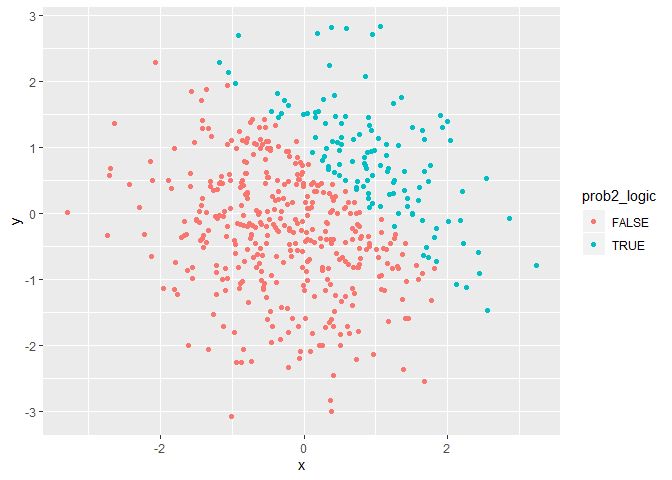
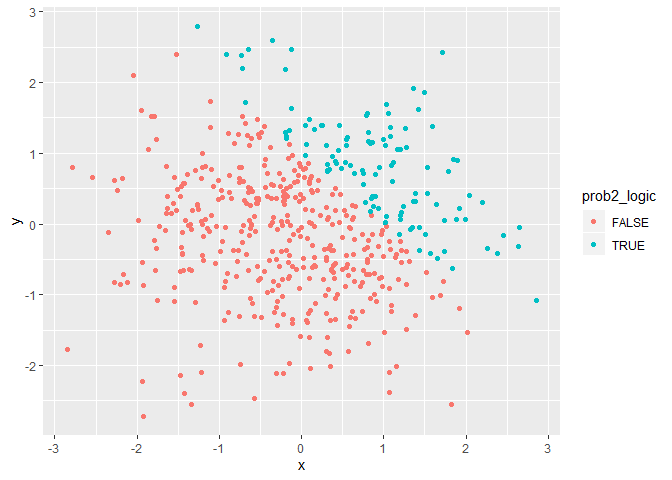
Added my vector names to explanations in parts 1-3 and 2-1

diff --git a/p8105_hw1_ha2546.md b/p8105_hw1_ha2546.md
@@ -25,13 +25,13 @@ prob1_df = tibble(
 mean(pull(prob1_df, vec_sample))
 ```
 
-    ## [1] -0.294464
+    ## [1] 0.2251943
 
 ``` r
 mean(pull(prob1_df, vec_logic))
 ```
 
-    ## [1] 0.375
+    ## [1] 0.75
 
 ``` r
 mean(pull(prob1_df, vec_char))
@@ -87,37 +87,39 @@ calculations with them.
 ## 1-3
 
 On the final step for question one, I played a little bit with the
-logical vector\! First, I did some calculations with the logical vector
-that I had just converted to numeric in the last part. Then, I converted
-the logical vector to factor, and tried to do calculations, then
-converted it to numeric again, and done some calculations.
-
-Then, I have converted the logical vector again, but this time to a
-factor vector. And again, done some calculations…
+logical vector\! First, converted the logical vector to
+numeric(num\_logic) (although I did that step in the previous part, I
+did it again because it was stated again in this part of question) and
+multiplied the random sample by the result and saved it as
+num\_logic\_calc. Then, I converted the logical vector to
+factor(factor\_logic), and multiplied the random sample by the result
+and saved it as factor\_logic\_calc1. Then, I used the logical vector
+that had been transformed to factor(factor\_logic), and multiplied it by
+random sample. I saved the variables this time so that I can see the
+results altogether in the output, and because I needed each in the step
+after that.
 
 ``` r
 num_logic = as.numeric(pull(prob1_df, vec_logic))
-
 num_logic_calc = pull(prob1_df, vec_sample) * num_logic
+
+factor_logic = as.factor(pull(prob1_df, vec_logic))
+factor_logic_calc1 = pull(prob1_df, vec_sample) * factor_logic
+
+num_factor_logic = as.numeric(factor_logic)
+factor_logic_calc2 = pull(prob1_df, vec_sample) * num_factor_logic
+
 num_logic_calc
 ```
 
-    ## [1] 0.6355077 0.0000000 0.6203887 0.0000000 0.0000000 0.0000000 1.0591729
-    ## [8] 0.0000000
-
-``` r
-factor_logic = as.factor(pull(prob1_df, vec_logic))
-factor_logic_calc1 = pull(prob1_df, vec_sample) * factor_logic
-```
-
-    ## Warning in Ops.factor(pull(prob1_df, vec_sample), factor_logic): '*' not
-    ## meaningful for factors
+    ## [1] 0.89331893 0.88631375 0.00000000 0.00000000 0.60108353 0.02825243
+    ## [7] 2.73667452 0.23013779
 
 ``` r
 factor_logic
 ```
 
-    ## [1] TRUE  FALSE TRUE  FALSE FALSE FALSE TRUE  FALSE
+    ## [1] TRUE  TRUE  FALSE FALSE TRUE  TRUE  TRUE  TRUE 
     ## Levels: FALSE TRUE
 
 ``` r
@@ -127,36 +129,36 @@ factor_logic_calc1
     ## [1] NA NA NA NA NA NA NA NA
 
 ``` r
-num_factor_logic = as.numeric(factor_logic)
-factor_logic_calc2 = pull(prob1_df, vec_sample) * num_factor_logic
 num_factor_logic
 ```
 
-    ## [1] 2 1 2 1 1 1 2 1
+    ## [1] 2 2 1 1 2 2 2 2
 
 ``` r
 factor_logic_calc2
 ```
 
-    ## [1]  1.2710154 -1.5206255  1.2407774 -1.4859877 -0.4162943 -0.9121237
-    ## [7]  2.1183457 -0.3357502
+    ## [1]  1.78663786  1.77262751 -2.74057399 -0.83365256  1.20216705  0.05650485
+    ## [7]  5.47334903  0.46027557
 
   - **Results**
 
 It can be observed that calculations are possible when dealing with
 logical vector after it was transformed to numeric but it is not
-possible when we convert it to factor (which was expected due to
-previous parts). Also, when we saw that transforming factors to numerics
-is possible, so we are able to do calculations when we convert the
-factor to numeric.
+possible when we convert it to factor (which is compatible with previous
+results). Also, when we saw that transforming factors to numerics is
+possible, so we are able to do calculations when we convert the factor
+to numeric.
 
 # Problem 2
 
 ## 2.1
 
-First, I am going to creat a data frame, define varian=bles x and y, and
-a logical vector. Then I transformed the logical vector to numeric and
-factor.
+In the first part, I created a data frame comprised of x and y as
+samples of size 500 from a standard Normal distribution, a logical
+vector(prob2\_logic) indicating whether x + y \> 1, and numeric
+vector(num\_logic2) and a factor vector(factor\_logic2), both created by
+coercing logical vector.
 
 ``` r
 prob2_df = tibble(
@@ -169,9 +171,9 @@ prob2_df = tibble(
 ```
 
 The size of my dataset for problem 2 (named prob2\_df) is 500, 5; which
-means it has 500 rows and 5columns. The mean of x is 0.0013117, its
-median is 0.0034046, and its standard deviation is 1.0354797. The
-proportion of cases for which x + y \> 1 is 0.244
+means it has 500 rows and 5columns. The mean of x is -0.0198711, its
+median is -0.0125469, and its standard deviation is 1.0211926. The
+proportion of cases for which x + y \> 1 is 0.226
 
 ## 2.2
 
